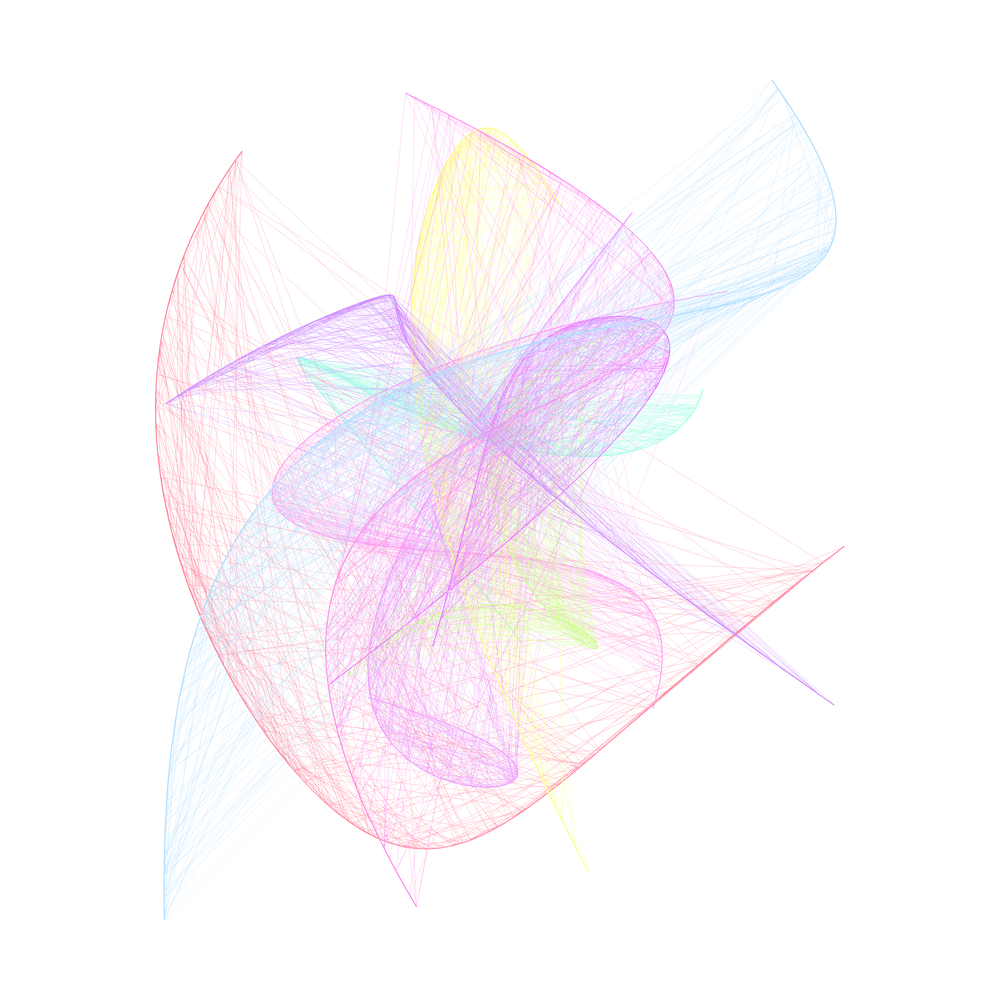
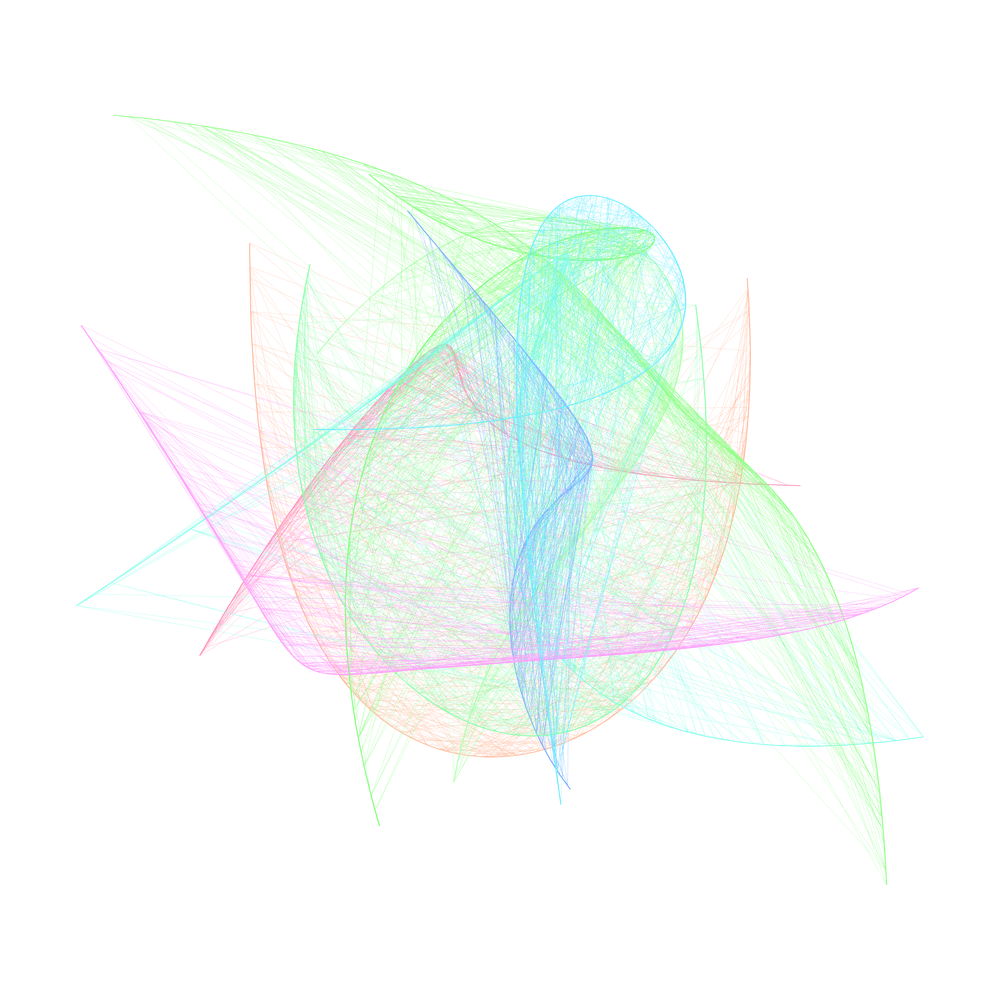
adding gui

diff --git a/gui.py b/gui.py
@@ -1,0 +1,46 @@
+from kivy.app import App
+from kivy.uix.screenmanager import ScreenManager, Screen
+from curves_and_lines import CurvesAndLines
+from tools.colors import *
+
+
+class MainMenu(Screen):
+    pass
+
+
+class CurvesLines(Screen):
+    path = "images/curve.png"
+
+    def draw(self):
+        art = CurvesAndLines(
+            size=1000,
+            points_num=5,
+            lines=300,
+            steps=10,
+            width=lambda: 5,
+            color=random_pastel)
+
+        art.create()
+        art.get_image().save(self.path)
+
+    def back(self):
+        WindowManager().current = "enter"
+
+
+class WindowManager(ScreenManager):
+
+    def __init__(self):
+        super().__init__()
+        self.add_widget(MainMenu(name="menu"))
+        self.add_widget(CurvesLines(name="curves_lines"))
+
+        self.current = "menu"
+
+
+class GenerativeArt(App):
+    def build(self):
+        return WindowManager()
+
+
+if __name__ == '__main__':
+    GenerativeArt().run()

diff --git a/curves_and_lines.py b/curves_and_lines.py
@@ -16,6 +16,7 @@ class CurvesAndLines(ArtGenerator):
 
         self.lines = lines
         self.line_width = line_width
+        self.points_func = lambda: create_points(self.image, self.points_num)
 
     def main(self, dots=False, centered=True, draw=True):
         super().main()
@@ -39,6 +40,5 @@ if __name__ == '__main__':
                             width=lambda: 5,
                             color=random_pastel)
 
-    my_img.points_func = lambda: create_points(my_img.image, my_img.points_num)
     my_img.create()
     my_img.get_image().save('images/curve.png')

diff --git a/spiral.py b/spiral.py
@@ -44,11 +44,11 @@ if __name__ == '__main__':
         start=(500, 500),
         radius=200,
         angle=angle,
-        smoothness=8,
+        smoothness=4,
         color=random_red,
-        width=lambda: random.randint(4, 5),
+        width=lambda: random.randint(1, 2),
         offset_x=20,
-        offset_y=10
+        offset_y=300
     )
 
     spiral.save('images/spiral.png')
